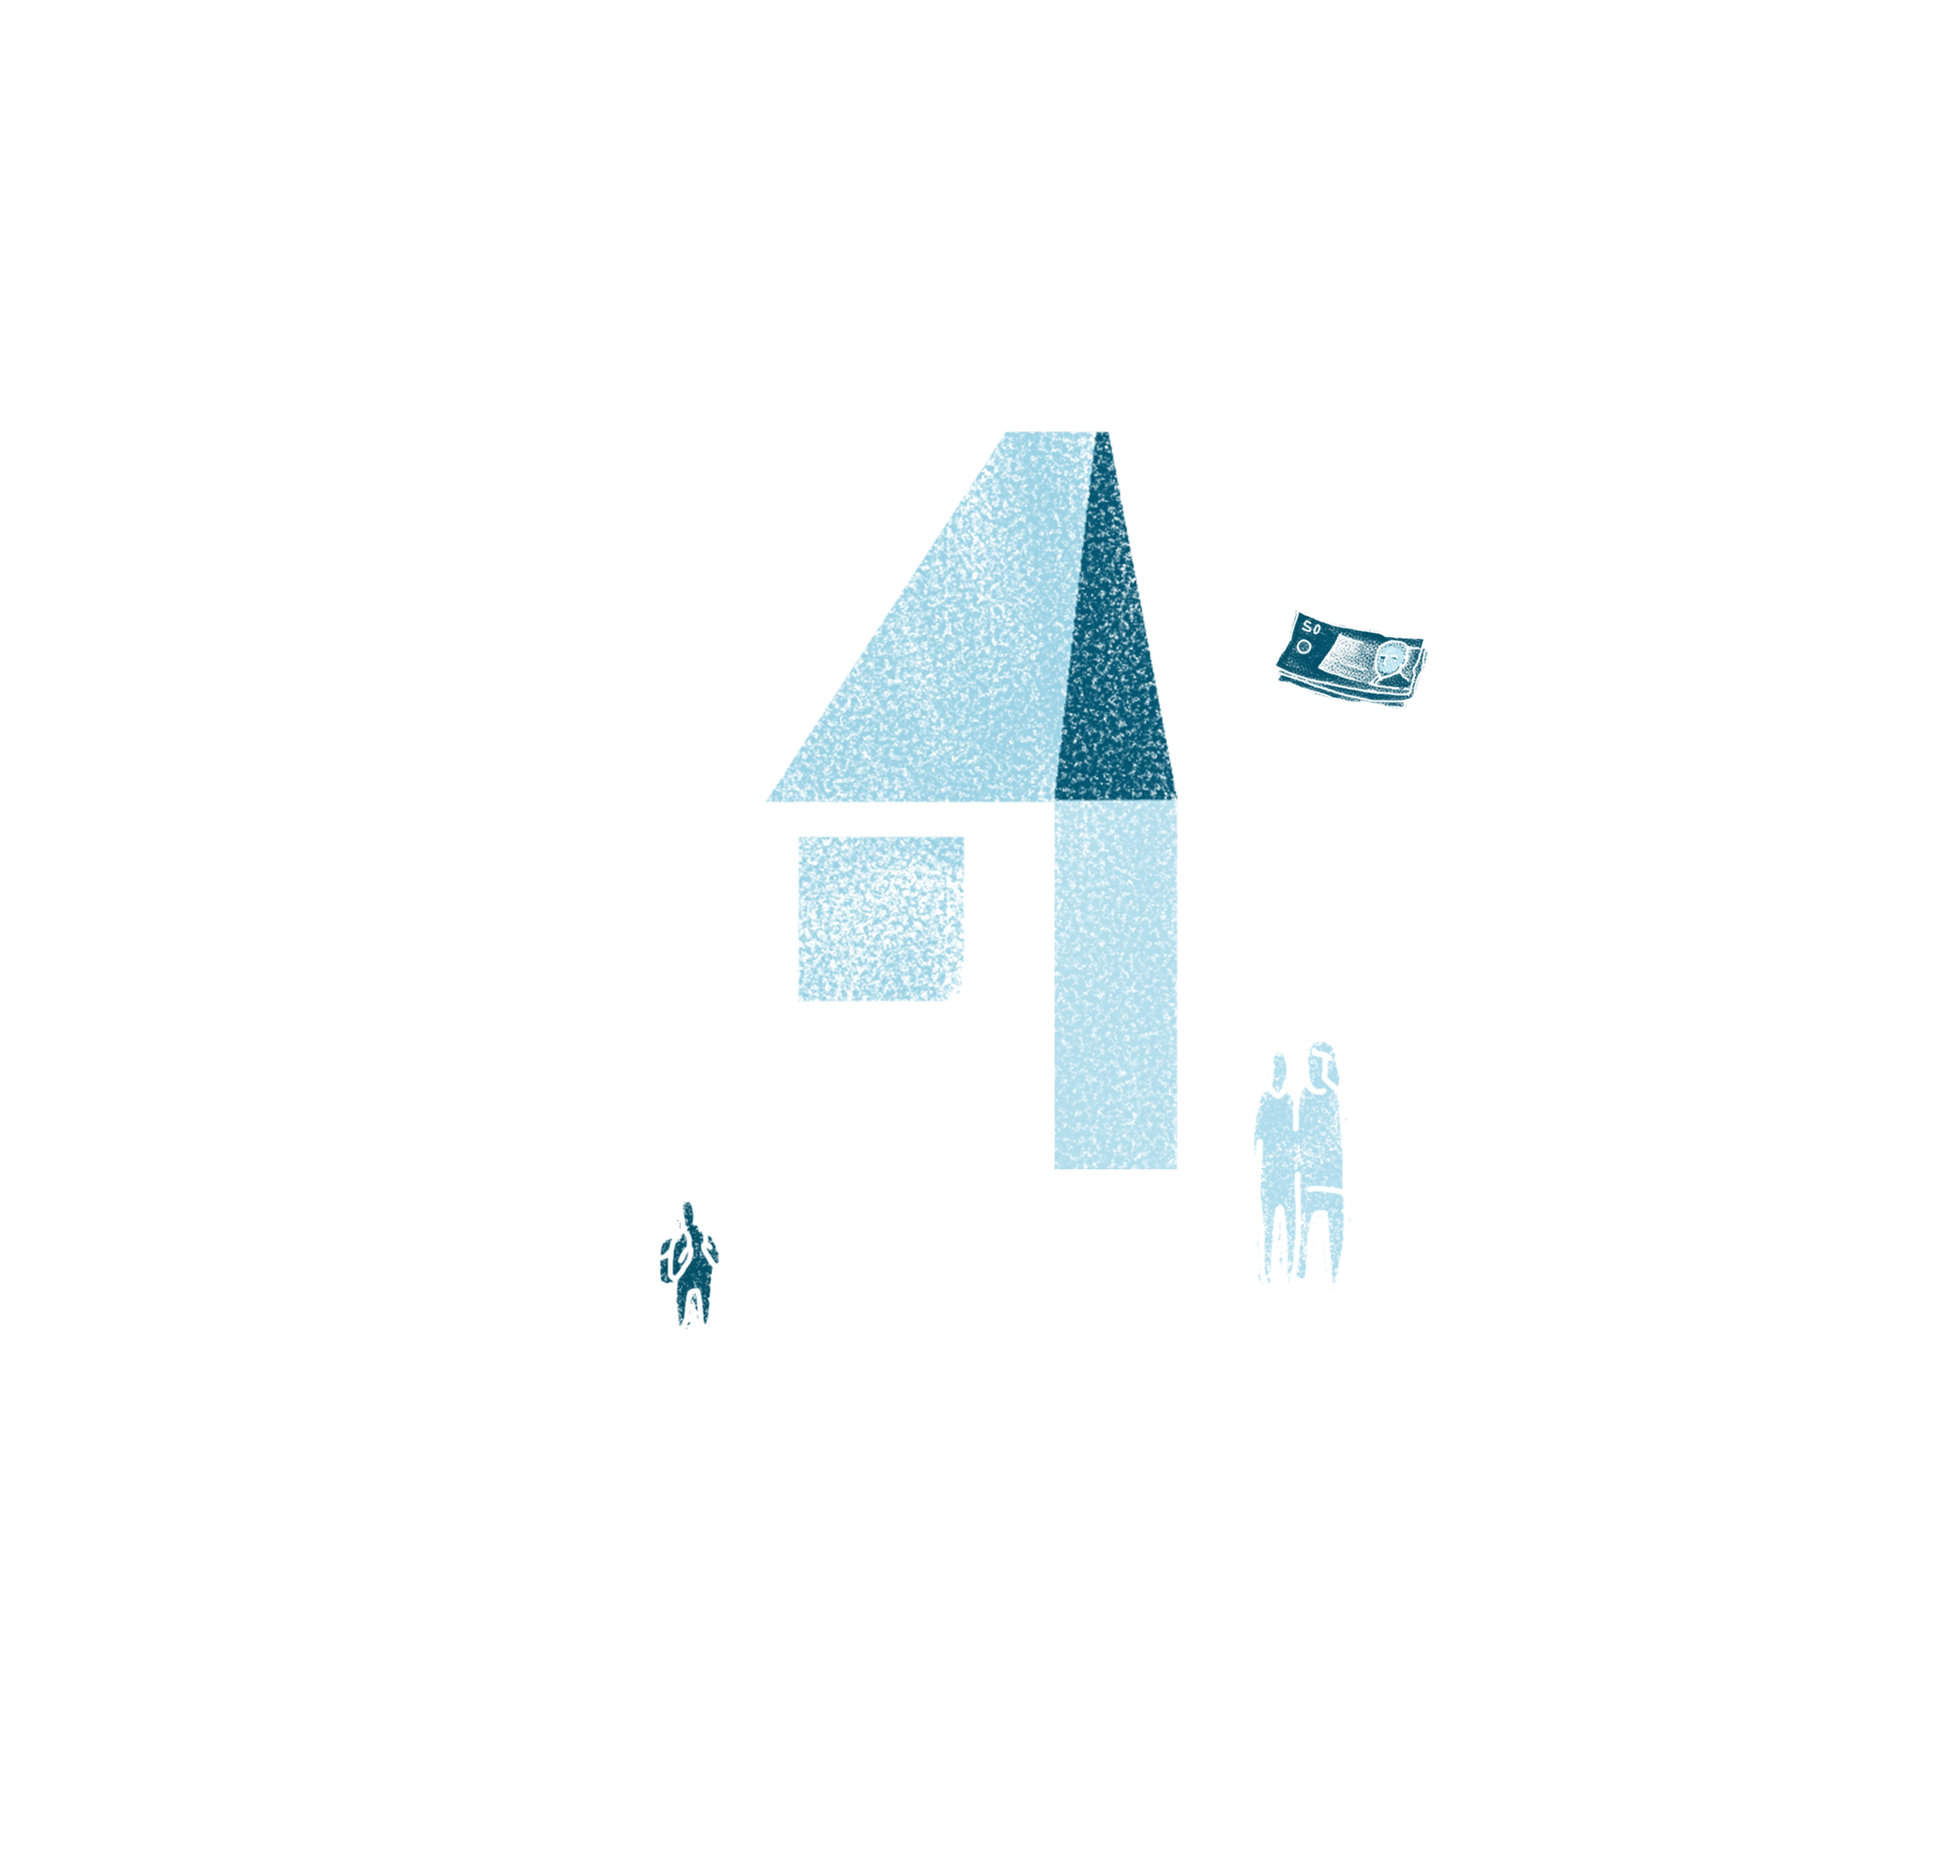
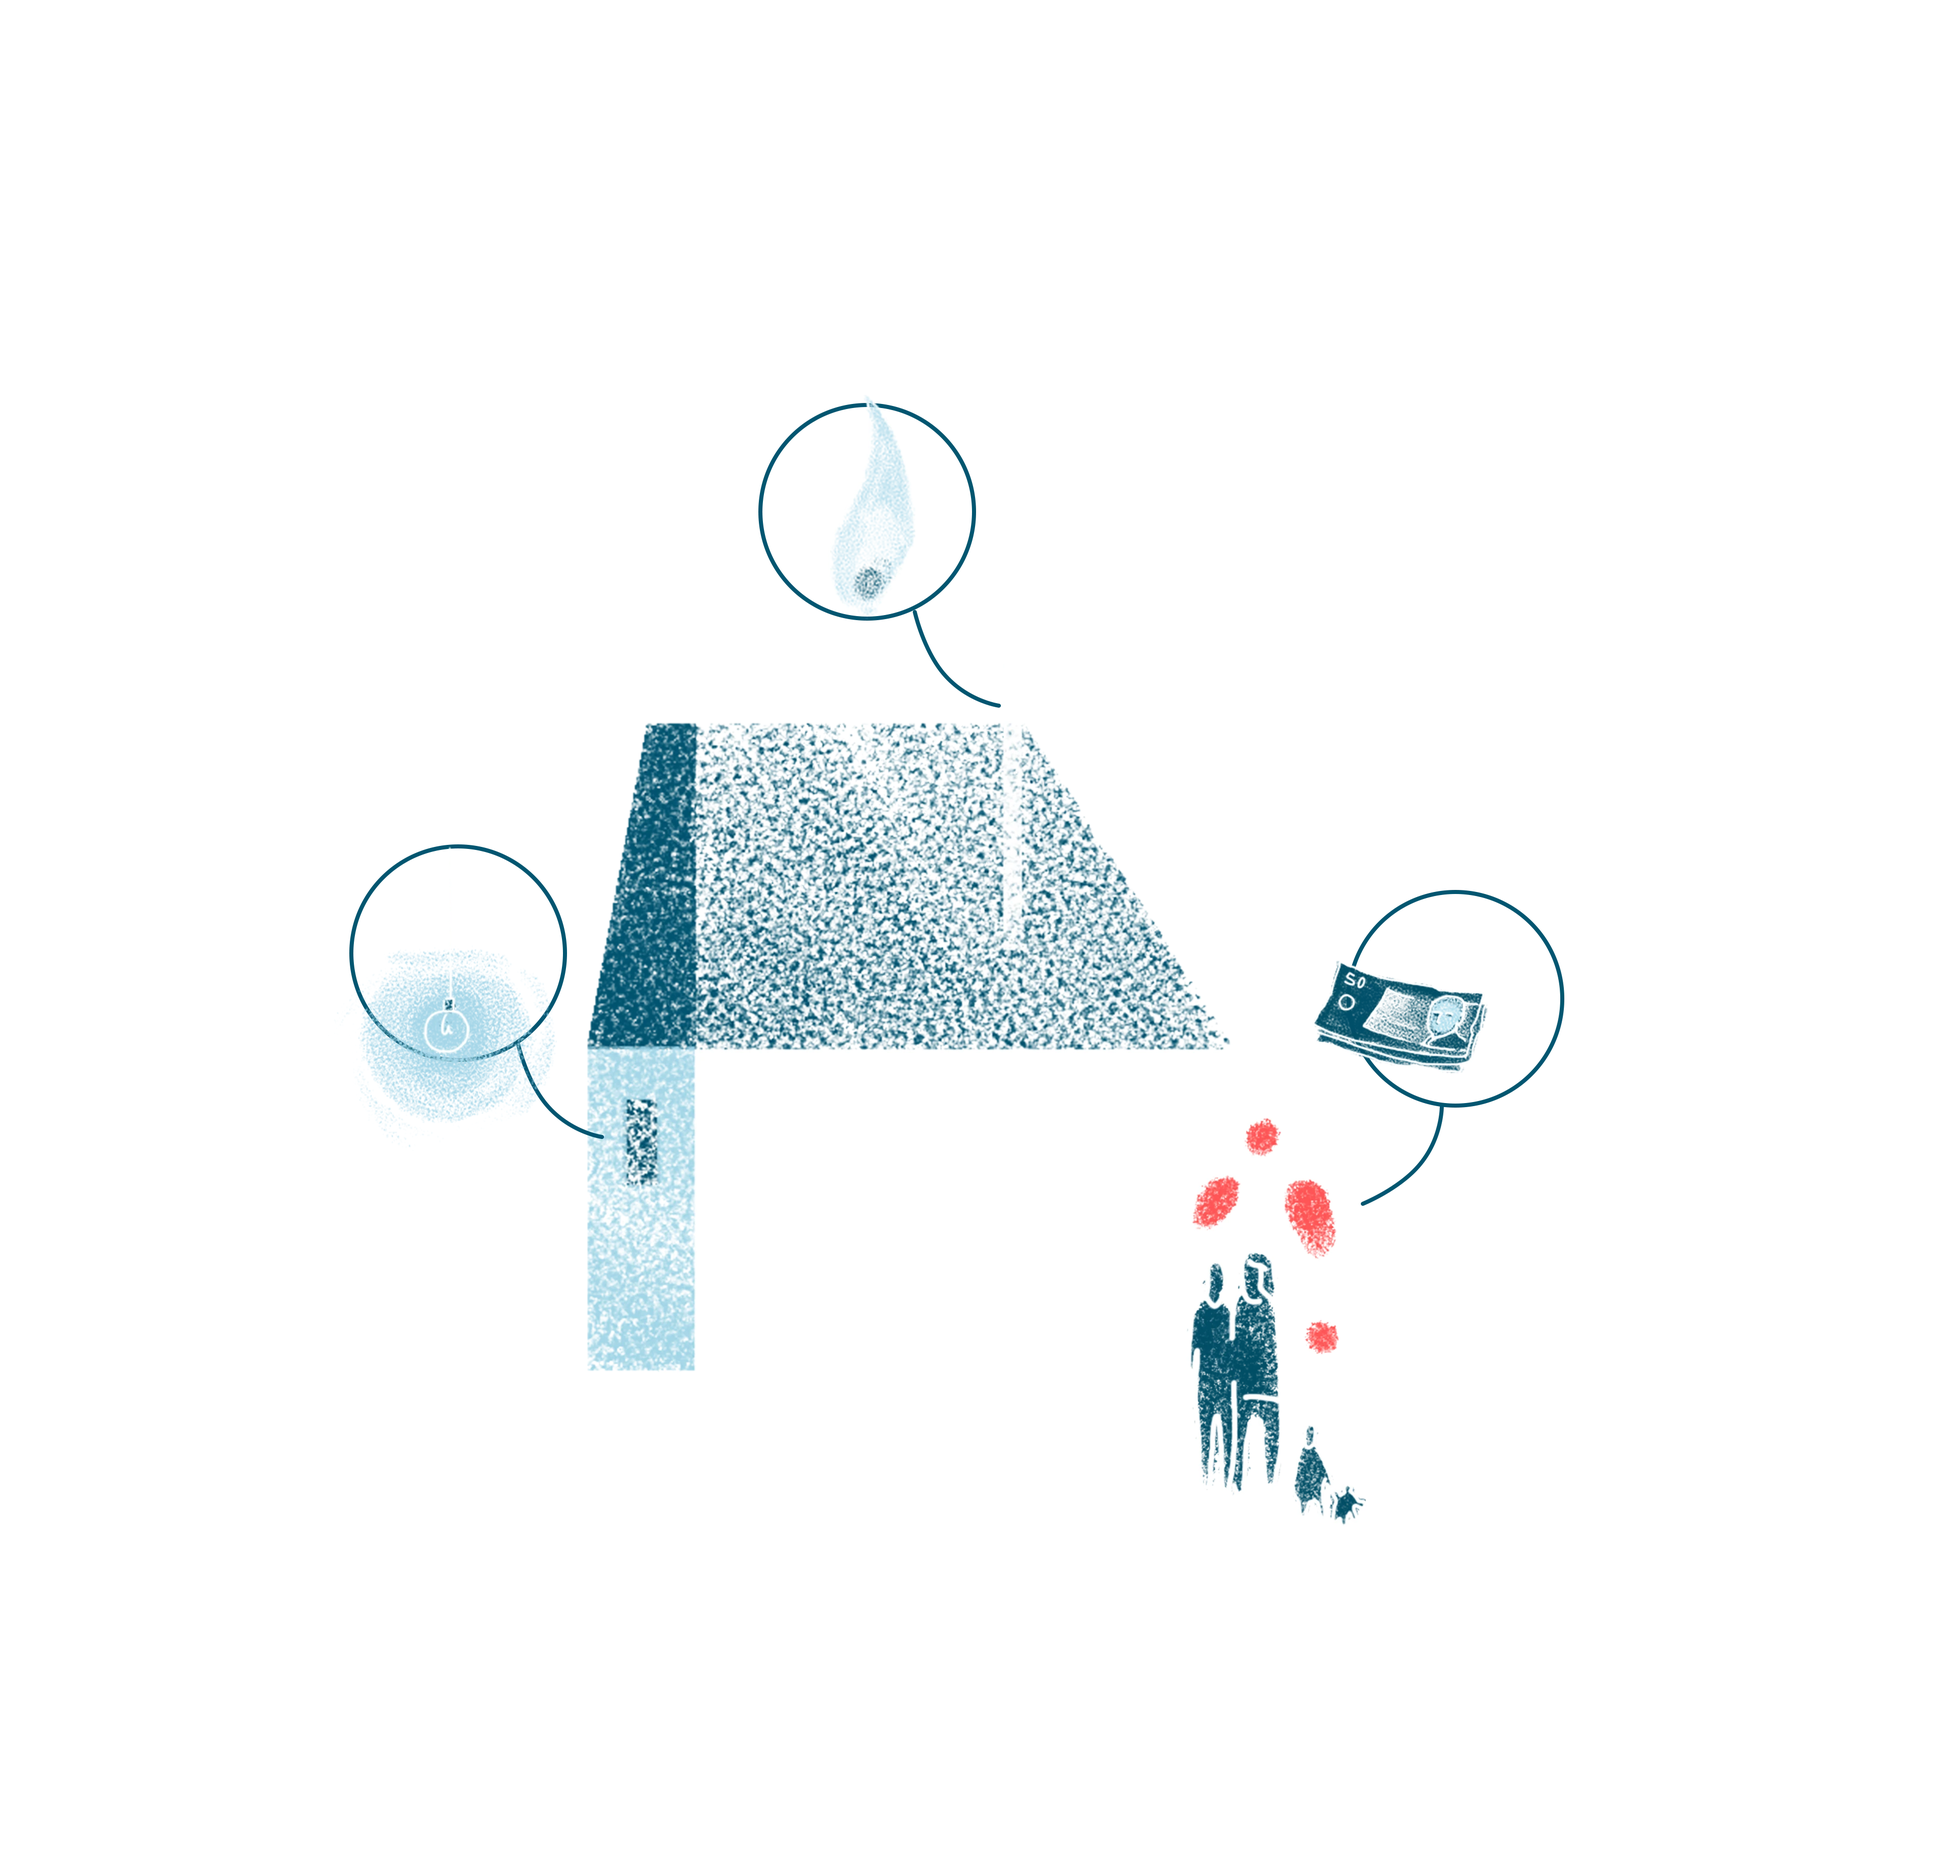
feat: add new illustration to scrolly

Changed region(s): [[0.1875, 0.2178, 0.7812, 0.809], [0.6562, 0.3111, 0.75, 0.3734]]

diff --git a/src/lib/components/scrollytelling/ScrollyFigure.svelte b/src/lib/components/scrollytelling/ScrollyFigure.svelte
@@ -1,12 +1,24 @@
 <script lang="ts">
 	import FigureData from '$lib/data/figure.json';
 	import { resolve } from '$app/paths';
-	import { fade } from 'svelte/transition';
 
 	let { step } = $props();
 
 	let width = $state(0);
 	const isMobile = $derived(width > 0 && width < 768);
+
+	let shownStep = $state(step);
+	let visible = $state(true);
+
+	$effect(() => {
+		// React to step changes: fade out, swap content, fade in
+		if (step === shownStep) return;
+		visible = false;
+		setTimeout(() => {
+			shownStep = step;
+			visible = true;
+		}, 220);
+	});
 
 	function figureUrl(figureStep: (typeof FigureData)['figure-steps'][number], url: string): string {
 		if (figureStep.title === 'chart' && isMobile) {
@@ -17,47 +29,44 @@
 </script>
 
 <div class="relative h-full w-full overflow-hidden" bind:clientWidth={width}>
-	{#key step}
-		<div
-			in:fade={{ duration: 400, delay: 150 }}
-			out:fade={{ duration: 250 }}
-			class={`absolute inset-0 flex items-center justify-center overflow-hidden ${FigureData['figure-steps'][step].title === 'population' ? 'p-4 md:p-10' : 'p-4'}`}
-		>
-			{#if FigureData['figure-steps'][step].title === 'population' || FigureData['figure-steps'][step].title === 'population-end'}
-				<!-- Grid of human figures — 5 cols on mobile, 10 on desktop -->
-				<div class="grid max-w-[95vw] grid-cols-8 md:w-[50vw] md:grid-cols-11 md:grid-rows-6">
-					{#each FigureData['figure-steps'][step].urls as figure}
-						<div class="flex items-center justify-center">
-							<img class="h-auto w-full object-contain" src={resolve(figure)} alt="" />
-						</div>
-					{/each}
-				</div>
-			{:else}
-				<div class="flex flex-wrap justify-center">
-					<!-- Single illustration — constrained to viewport height -->
-					{#each FigureData['figure-steps'][step].urls as figure}
-						<img
-							class={`${FigureData['figure-steps'][step].css} w-auto max-w-full object-contain md:max-h-[80vh]`}
-							src={resolve(figureUrl(FigureData['figure-steps'][step], figure))}
-							alt=""
-						/>
-					{/each}
-				</div>
-			{/if}
-			{#if FigureData['figure-steps'][step]['has-footnote']}
-				<div
-					class="absolute bottom-10 flex w-5/6 items-center justify-end bg-primary-blue/50 text-xs italic md:right-10 md:w-2/6 md:bg-transparent"
-				>
+	<div
+		class={`absolute inset-0 flex items-center justify-center overflow-hidden transition-opacity duration-200 ${FigureData['figure-steps'][shownStep].title === 'population' ? 'p-4 md:p-10' : 'p-4'}`}
+		style="opacity: {visible ? 1 : 0};"
+	>
+		{#if FigureData['figure-steps'][shownStep].title === 'population' || FigureData['figure-steps'][shownStep].title === 'population-end'}
+			<!-- Grid of human figures — 5 cols on mobile, 10 on desktop -->
+			<div class="grid max-w-[95vw] grid-cols-8 md:w-[50vw] md:grid-cols-11 md:grid-rows-6">
+				{#each FigureData['figure-steps'][shownStep].urls as figure}
+					<div class="flex items-center justify-center">
+						<img class="h-auto w-full object-contain" src={resolve(figure)} alt="" />
+					</div>
+				{/each}
+			</div>
+		{:else}
+			<div class="flex flex-wrap justify-center">
+				<!-- Single illustration — constrained to viewport height -->
+				{#each FigureData['figure-steps'][shownStep].urls as figure}
 					<img
-						class={`${FigureData['figure-steps'][step].title === 'population' ? 'h-[2em] md:h-[4em] ' : 'h-[2em] md:h-[1.5em]'} mr-6 w-auto`}
-						src={resolve(FigureData['figure-steps'][step].footnote.img)}
+						class={`${FigureData['figure-steps'][shownStep].css} w-auto max-w-full object-contain`}
+						src={resolve(figureUrl(FigureData['figure-steps'][shownStep], figure))}
 						alt=""
 					/>
-					<div>
-						{FigureData['figure-steps'][step].footnote.text}
-					</div>
+				{/each}
+			</div>
+		{/if}
+		{#if FigureData['figure-steps'][shownStep]['has-footnote']}
+			<div
+				class="absolute bottom-10 flex w-5/6 items-center justify-end bg-primary-blue/50 text-xs italic md:right-10 md:w-2/6 md:bg-transparent"
+			>
+				<img
+					class={`${FigureData['figure-steps'][shownStep].title === 'population' ? 'h-[2em] md:h-[4em] ' : 'h-[2em] md:h-[1.5em]'} mr-6 w-auto`}
+					src={resolve(FigureData['figure-steps'][shownStep].footnote.img)}
+					alt=""
+				/>
+				<div>
+					{FigureData['figure-steps'][shownStep].footnote.text}
 				</div>
-			{/if}
-		</div>
-	{/key}
+			</div>
+		{/if}
+	</div>
 </div>

diff --git a/src/lib/components/Header.svelte b/src/lib/components/Header.svelte
@@ -130,6 +130,28 @@
 					<div class="flex w-1/2 flex-col md:w-1/4">
 						<div class="flex h-45 items-center justify-center overflow-hidden">
 							<img
+								class="h-full w-full object-contain p-10 md:p-6"
+								src={resolve('/illustrations/webp/objects/bill.webp')}
+								alt=""
+							/>
+						</div>
+						<p class="px-5 text-center text-xs md:px-0">
+							Higher percent of total household income from the welfare state
+						</p>
+					</div>
+					<div class="flex w-1/2 flex-col md:w-1/4">
+						<div class="flex h-45 items-center justify-center overflow-hidden">
+							<img
+								class="h-full w-full object-contain p-4"
+								src={resolve('/illustrations/webp/humans/human4-darkblue-accent.webp')}
+								alt=""
+							/>
+						</div>
+						<p class="px-8 text-center text-xs md:px-0">Caring for others in household</p>
+					</div>
+					<div class="flex w-1/2 flex-col md:w-1/4">
+						<div class="flex h-45 items-center justify-center overflow-hidden">
+							<img
 								class="h-full w-full object-contain p-4"
 								src={resolve('/illustrations/webp/humans/human12-darkblue-accent.webp')}
 								alt=""
@@ -140,34 +162,12 @@
 					<div class="flex w-1/2 flex-col md:w-1/4">
 						<div class="flex h-45 items-center justify-center overflow-hidden">
 							<img
-								class="h-full w-full object-contain p-4"
-								src={resolve('/illustrations/webp/humans/human4-darkblue-accent.webp')}
-								alt=""
-							/>
-						</div>
-						<p class="text-center text-xs">Caring for others in household</p>
-					</div>
-					<div class="flex w-1/2 flex-col md:w-1/4">
-						<div class="flex h-45 items-center justify-center overflow-hidden">
-							<img
 								class="h-full w-full object-contain p-10 md:p-6"
 								src={resolve('/illustrations/webp/objects/universal-credit.webp')}
 								alt=""
 							/>
 						</div>
 						<p class="text-center text-xs">Universal Credit</p>
-					</div>
-					<div class="flex w-1/2 flex-col md:w-1/4">
-						<div class="flex h-45 items-center justify-center overflow-hidden">
-							<img
-								class="h-full w-full object-contain p-10 md:p-6"
-								src={resolve('/illustrations/webp/objects/bill.webp')}
-								alt=""
-							/>
-						</div>
-						<p class="text-center text-xs">
-							Higher percent of total household income from the welfare state
-						</p>
 					</div>
 				</div>
 				<div class="my-10 flex items-center justify-center">
